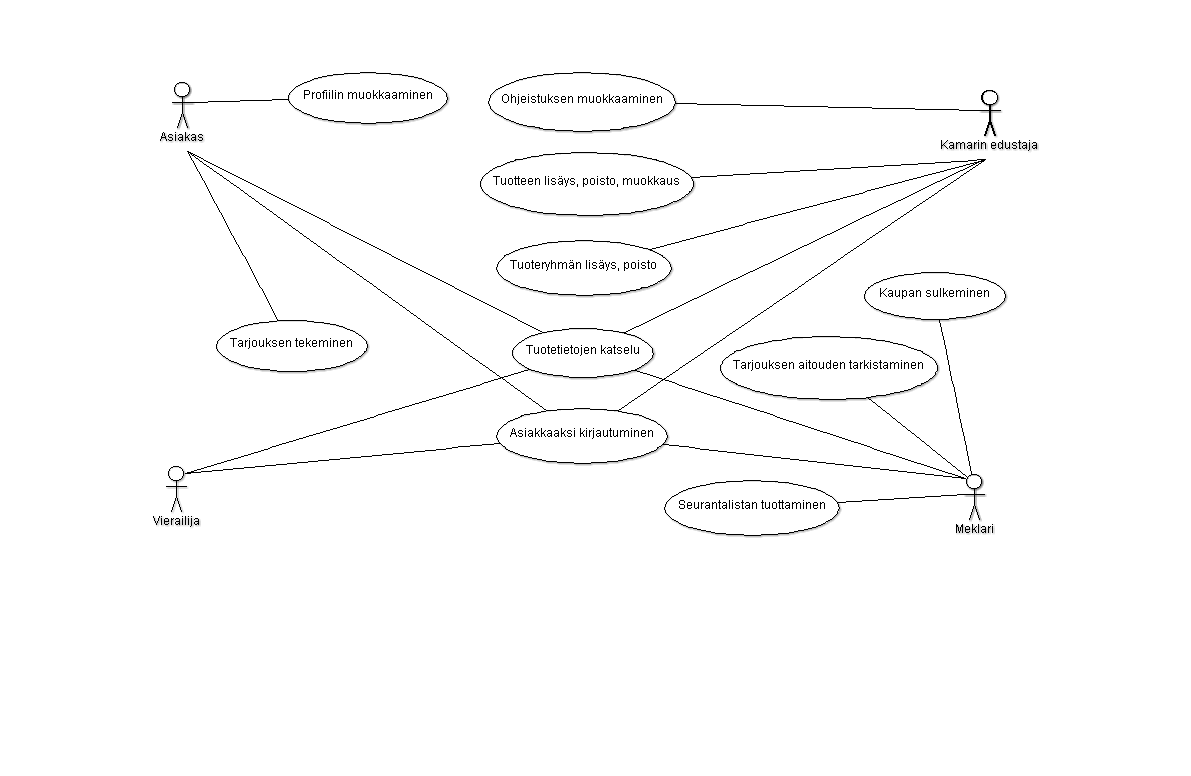
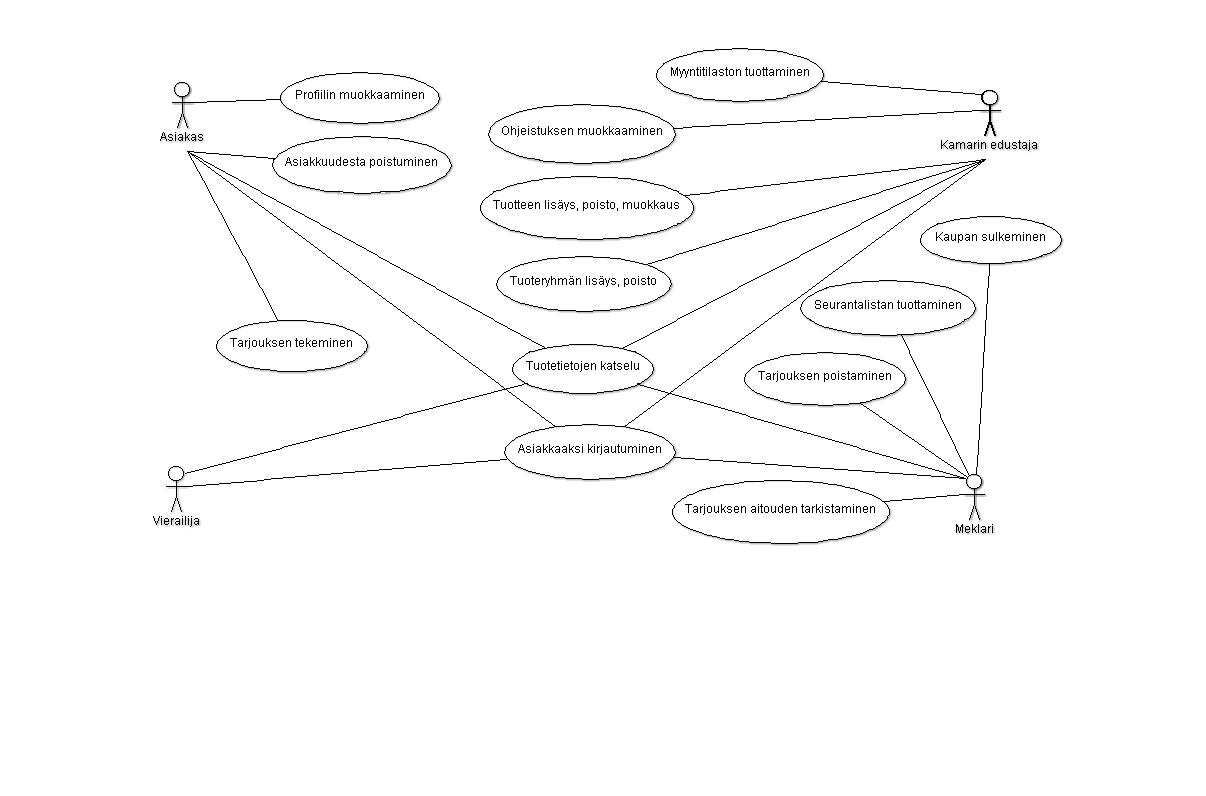
Lisää käyttötapauksia

diff --git a/README.md b/README.md
@@ -12,15 +12,16 @@ Vain huutokauppakamarin edustaja voi lisätä huutokaupan sivuille tuotteita ja 
 
 Toimintoja:
 - Tuotetietojen syöttö ja muokkaus
-- Tuotteen poistaminen ja siirto toteutuneiden kauppojen luetteloon
+- Tuotteen poistaminen ja tarvittaessa siirto toteutuneiden kauppojen luetteloon
 - Tuoteluokkien muokkaus, lisäys ja poisto
 - Tuotetietojen katselu
-- Kirjautuminen
+- Asiakkaaksi kirjautuminen, oman profiilin muokkaaminen ja irtisanoutuminen
 - Tarjouksen tekeminen
-- Meklarin seurantalistan tuottaminen
+- Meklarin seurantalistan tuottaminen ja tarjouksen poistaminen tarvittaessa
 - Lasku asiakkaalle
 - Kaupan sulkeminen tuotteen osalta
 - Ohjeiden muokkaus
+- Kamarin edustaja voi tuottaa tietokannasta myyntitilaston, esimerkiksi kauppojen määrät asiakkaan paikkakunnan mukaan
 
 HUOM: Alkuvaiheessa sovelluksena on viikon 2 todo-sovellus.
 
